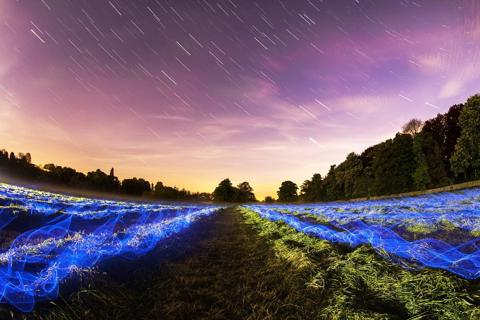
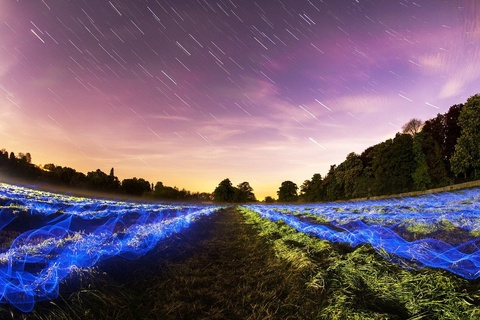
converted to disintegration/imaging to handle jpg exif orientation

diff --git a/scale.go b/scale.go
@@ -1,17 +1,21 @@
 package main
 
 import (
+	"errors"
 	"image"
 	"io"
-	"math"
 
-	"golang.org/x/image/draw"
+	"github.com/disintegration/imaging"
 )
 
-func ScaleDown(r io.Reader, maxWidth, maxHeight int) (image.Image, string, error) {
-	src, format, err := image.Decode(r)
+func ScaleDown(r io.ReadSeeker, maxWidth, maxHeight int) (image.Image, error) {
+	if maxWidth == 0 && maxHeight == 0 {
+		return nil, errors.New("invalid parameters: maxWidth and maxHeight are both 0")
+	}
+
+	src, err := imaging.Decode(r, imaging.AutoOrientation(true))
 	if err != nil {
-		return nil, "", err
+		return nil, err
 	}
 
 	srcWidth := src.Bounds().Dx()
@@ -19,30 +23,31 @@ func ScaleDown(r io.Reader, maxWidth, maxHeight int) (image.Image, string, error
 
 	// don't resize if source is already smaller
 	if srcWidth <= maxWidth || srcHeight <= maxHeight {
-		return src, format, err
+		return src, err
 	}
 
-	// determine scaling ratio
-	var ratio float64
-	switch {
-	case maxWidth == 0:
-		ratio = float64(maxHeight) / float64(srcHeight)
-	case maxHeight == 0:
-		ratio = float64(maxWidth) / float64(srcWidth)
-	default:
-		ratio = math.Min(
-			float64(maxWidth)/float64(srcWidth),
-			float64(maxHeight)/float64(srcHeight),
-		)
-	}
+	/*
+		// determine scaling ratio
+		var ratio float64
+		switch {
+		case maxWidth == 0:
+			ratio = float64(maxHeight) / float64(srcHeight)
+		case maxHeight == 0:
+			ratio = float64(maxWidth) / float64(srcWidth)
+		default:
+			ratio = math.Min(
+				float64(maxWidth)/float64(srcWidth),
+				float64(maxHeight)/float64(srcHeight),
+			)
+		}
 
-	// scaled down dimension
-	newWidth := int(math.Round(float64(srcWidth) * ratio))
-	newHeight := int(math.Round(float64(srcHeight) * ratio))
+		// scaled down dimension
+		newWidth := int(math.Round(float64(srcWidth) * ratio))
+		newHeight := int(math.Round(float64(srcHeight) * ratio))
+	*/
 
-	// Resize:
-	dst := image.NewRGBA(image.Rect(0, 0, newWidth, newHeight))
-	draw.CatmullRom.Scale(dst, dst.Rect, src, src.Bounds(), draw.Over, nil)
+	// Resize
+	dst := imaging.Resize(src, maxWidth, maxHeight, imaging.Lanczos)
 
-	return dst, format, err
+	return dst, err
 }

diff --git a/main.go b/main.go
@@ -3,9 +3,10 @@ package main
 import (
 	"flag"
 	"fmt"
-	"image/jpeg"
 	"image/png"
 	"os"
+
+	"github.com/disintegration/imaging"
 )
 
 func main() {
@@ -31,7 +32,7 @@ func main() {
 	}
 	defer input.Close()
 
-	img, format, err := ScaleDown(input, width, height)
+	img, err := ScaleDown(input, width, height)
 	if err != nil {
 		fmt.Println(err)
 		os.Exit(1)
@@ -44,13 +45,20 @@ func main() {
 	}
 	defer output.Close()
 
-	switch format {
-	case "jpeg":
-		jpeg.Encode(output, img, nil)
-	case "png":
-		png.Encode(output, img)
+	format, err := imaging.FormatFromFilename(outFileName)
+	if err != nil {
+		fmt.Println(err)
+		os.Exit(1)
 	}
 
-	fmt.Printf("scaled %s %q to %dx%d\n",
-		format, inFileName, img.Bounds().Dx(), img.Bounds().Dy())
+	switch format {
+	case imaging.JPEG:
+		imaging.Encode(output, img, imaging.JPEG, imaging.JPEGQuality(95))
+
+	case imaging.PNG:
+		imaging.Encode(output, img, imaging.PNG, imaging.PNGCompressionLevel(png.DefaultCompression))
+	}
+
+	fmt.Printf("scaled %q to %dx%d\n",
+		inFileName, img.Bounds().Dx(), img.Bounds().Dy())
 }
